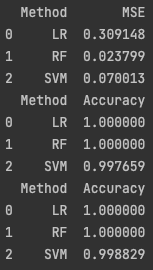
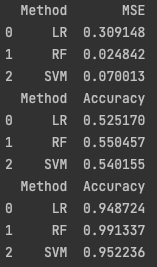
Add OLS estimator

diff --git a/raw_ik_vs.py b/raw_ik_vs.py
@@ -1,23 +1,29 @@
 import numpy as np
-import pandas as pd
-from model import *
+from model.machine_learning_model import *
+from model.ols import *
 
 raw_data = pd.read_csv('cleaned_original_ik_data.csv', index_col=0)
 raw_data.replace([np.inf, -np.inf], np.nan, inplace=True)
 raw_data = raw_data.dropna(axis=0, how='any').reset_index(drop=True)
 raw_data['lnVOLUME'] = np.log(raw_data['VOLUME'])
 raw_data.drop(['VOLUME'], axis=1, inplace=True)
-normalized_raw_data = norm_standard(raw_data)
 
+# ols
+y = raw_data['CONC'].values
+x = raw_data.drop(['CONC'], axis=1, inplace=False).values
+pred, print_ols = build_ordinary_least_square(x, y)
+save_as_png(print_ols, 'raw_ik')
+
+normalized_raw_data = norm_standard(raw_data)
 # y1 -- regression
 y1 = normalized_raw_data.iloc[:, 3].values
 X1 = normalized_raw_data.drop(3, axis=1, inplace=False).values
 
 # y2 and y3 -- classification
 y2 = raw_data['S'].values
-X2 = norm_standard(raw_data.drop(['CONC', 'E', 'F'], axis=1, inplace=False)).values
+X2 = norm_standard(raw_data.drop(['CONC', 'E', 'F', 'B', 'S'], axis=1, inplace=False)).values
 y3 = raw_data['F'].values
-X3 = norm_standard(raw_data.drop(['CONC', 'B', 'S'], axis=1, inplace=False)).values
+X3 = norm_standard(raw_data.drop(['CONC', 'B', 'S', 'E', 'F'], axis=1, inplace=False)).values
 
 # regression
 raw_x_train_1, raw_x_test_1, raw_y1_train, raw_y1_test = create_train_test_dataset(X1, y1)

diff --git a/main.py b/main.py
@@ -3,11 +3,7 @@
 # Press ⌃R to execute it or replace it with your code.
 # Press Double ⇧ to search everywhere for classes, files, tool windows, actions, and settings.
 import numpy as np
-import pandas as pd
-import statsmodels.api as sm
-import matplotlib.pyplot as plt
-import copy
-from model import *
+from model.machine_learning_model import *
 
 
 if __name__ == '__main__':
@@ -20,7 +16,7 @@ if __name__ == '__main__':
 
     raw_x_train, raw_x_test, raw_y_train, raw_y_test = create_train_test_dataset(X, y1)
     model_list = ['LR', 'RF']
-    result = comparison(model_list, raw_x_train, raw_x_test, raw_y_train, raw_y_test)
+    result = comparison_classification(model_list, raw_x_train, raw_x_test, raw_y_train, raw_y_test)
 
     df_result = pd.DataFrame(result, columns=['Method', 'Accuracy'])
     print(df_result)

diff --git a/model/ols.py b/model/ols.py
@@ -1,0 +1,20 @@
+import statsmodels.api as sm
+import matplotlib.pyplot as plt
+
+
+def build_ordinary_least_square(x, y):
+    X = sm.add_constant(x)
+    ols_model = sm.OLS(y, X).fit()
+    pred = ols_model.predict(X)
+    return pred, ols_model.summary()
+
+
+def save_as_png(print_model, name):
+    plt.rc('figure', figsize=(12, 14))
+    # plt.text(0.01, 0.05, str(print_model), {'fontsize': 12})   # old approach
+    plt.text(0.01, 0.05, str(print_model), {'fontsize': 12}, fontproperties='monospace')
+      # approach improved by OP -> monospace!
+    plt.axis('off')
+    # plt.tight_layout()
+    plt.savefig(str(name) + '_output.png')
+    plt.close()

diff --git a/fake_ek_vs.py b/fake_ek_vs.py
@@ -1,6 +1,5 @@
 import numpy as np
-import pandas as pd
-from model import *
+from model.machine_learning_model import *
 
 # Classification
 fake_data = pd.read_excel('ek_fake.xlsx', index_col=0)

diff --git a/fake_ik_vs.py b/fake_ik_vs.py
@@ -1,6 +1,5 @@
 import numpy as np
-import pandas as pd
-from model import *
+from model.machine_learning_model import *
 
 # Classification
 fake_data = pd.read_excel('ik_fake.xlsx', index_col=0)
